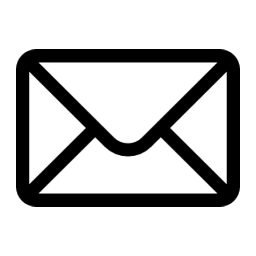
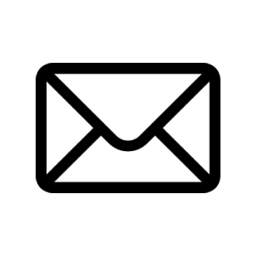
some style and a mail link

Changed region(s): [[0.0625, 0.1875, 0.9375, 0.8125]]

diff --git a/contact.html b/contact.html
@@ -50,20 +50,10 @@
                 <section>
                     <ul>
                         <li>
-                            <a class="link" href="https://floofinator.neocities.org/">Neocities<img class="icon"
-                                    src="https://neocities.org/img/cat.png"></a>
-                        </li>
-                        <li>
-                            <a class="link" href="https://twitter.com/floofinator7">Twitter<img class="icon"
-                                    src="icons/twitter.png"></a>
-                        </li>
-                        <li>
-                            <a class="link" href="https://floofinator.itch.io/">Itch.io<img class="icon"
-                                    src="icons/itchio.png"></a>
-                        </li>
-                        <li>
-                            <a class="link" href="https://floofinator7.newgrounds.com/">Newgrounds<img class="icon"
-                                    src="icons/newgrounds.png"></a>
+                            <a class="link" href="javascript:location='mailto:\u0063\u006f\u006e\u0074\u0061\u0063\u0074\u0040\u0066\u006c\u006f\u006f\u0066\u0069\u006e\u0061\u0074\u006f\u0072\u002e\u0063\u006f\u006d';void 0">
+                                Send Me an E-mail
+                                <img class="icon" src="icons/mail.png"></a>
+                            </a>
                         </li>
                     </ul>
                 </section>

diff --git a/style.css b/style.css
@@ -252,14 +252,14 @@ p .link {
 
     right: -8px;
 
-    transition: all 0.2s;
+    transition: all 0.5s;
     transition-timing-function: var(--expo-ease);
 
     transform: scale(1.5);
 }
 
 .link:hover .icon {
-    transform: scale(2) translate(2px);
+    transform: scale(1.75) translate(2px) rotate(360deg);
 }
 
 #background {
@@ -464,21 +464,19 @@ li a {
     padding-right: var(--large);
 }
 
-footer a {
-    margin: var(--medium);
+
+li a, footer a {
     padding: var(--small) var(--medium);
     padding-right: var(--very-large);
 }
 
+footer a {
+    margin: var(--medium);
+}
 
-footer .link .icon {
+li .link .icon, footer .link .icon {
     right: 0px;
 }
-
-footer .link:hover .icon {
-    transform: scale(2) translate(4px);
-}
-
 
 .madimi-one-regular {
     font-family: "Madimi One", sans-serif;
